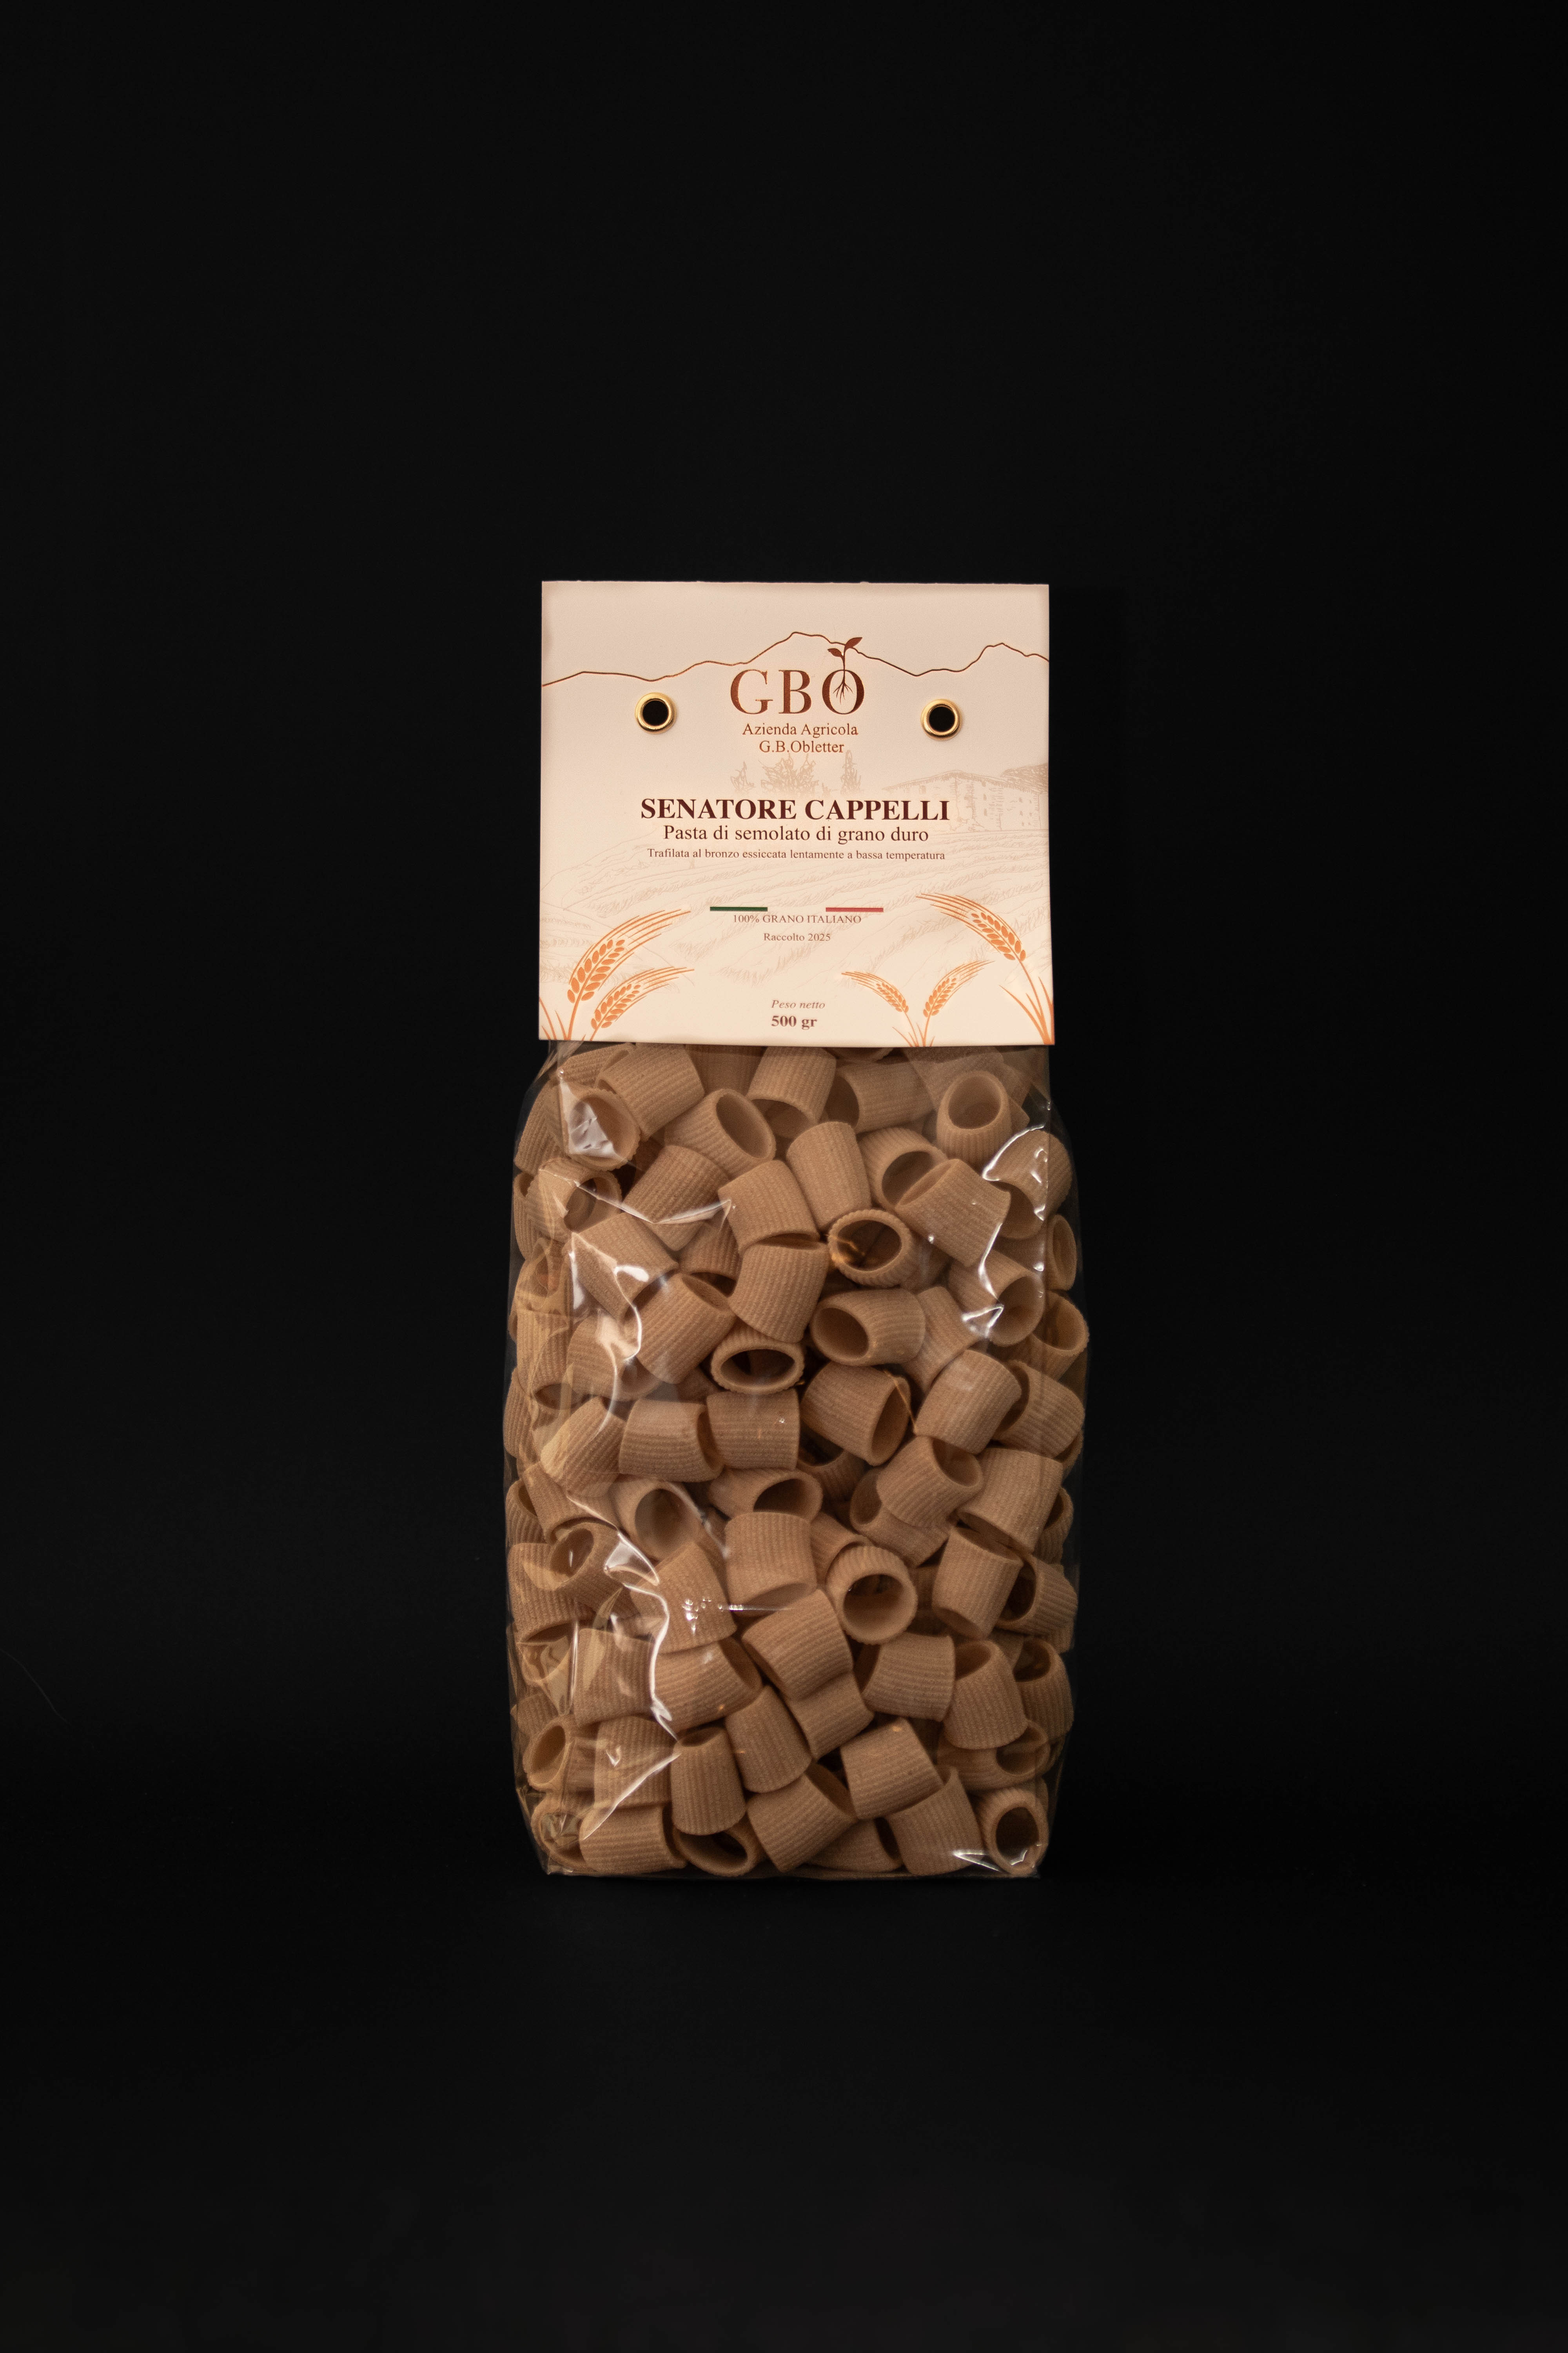
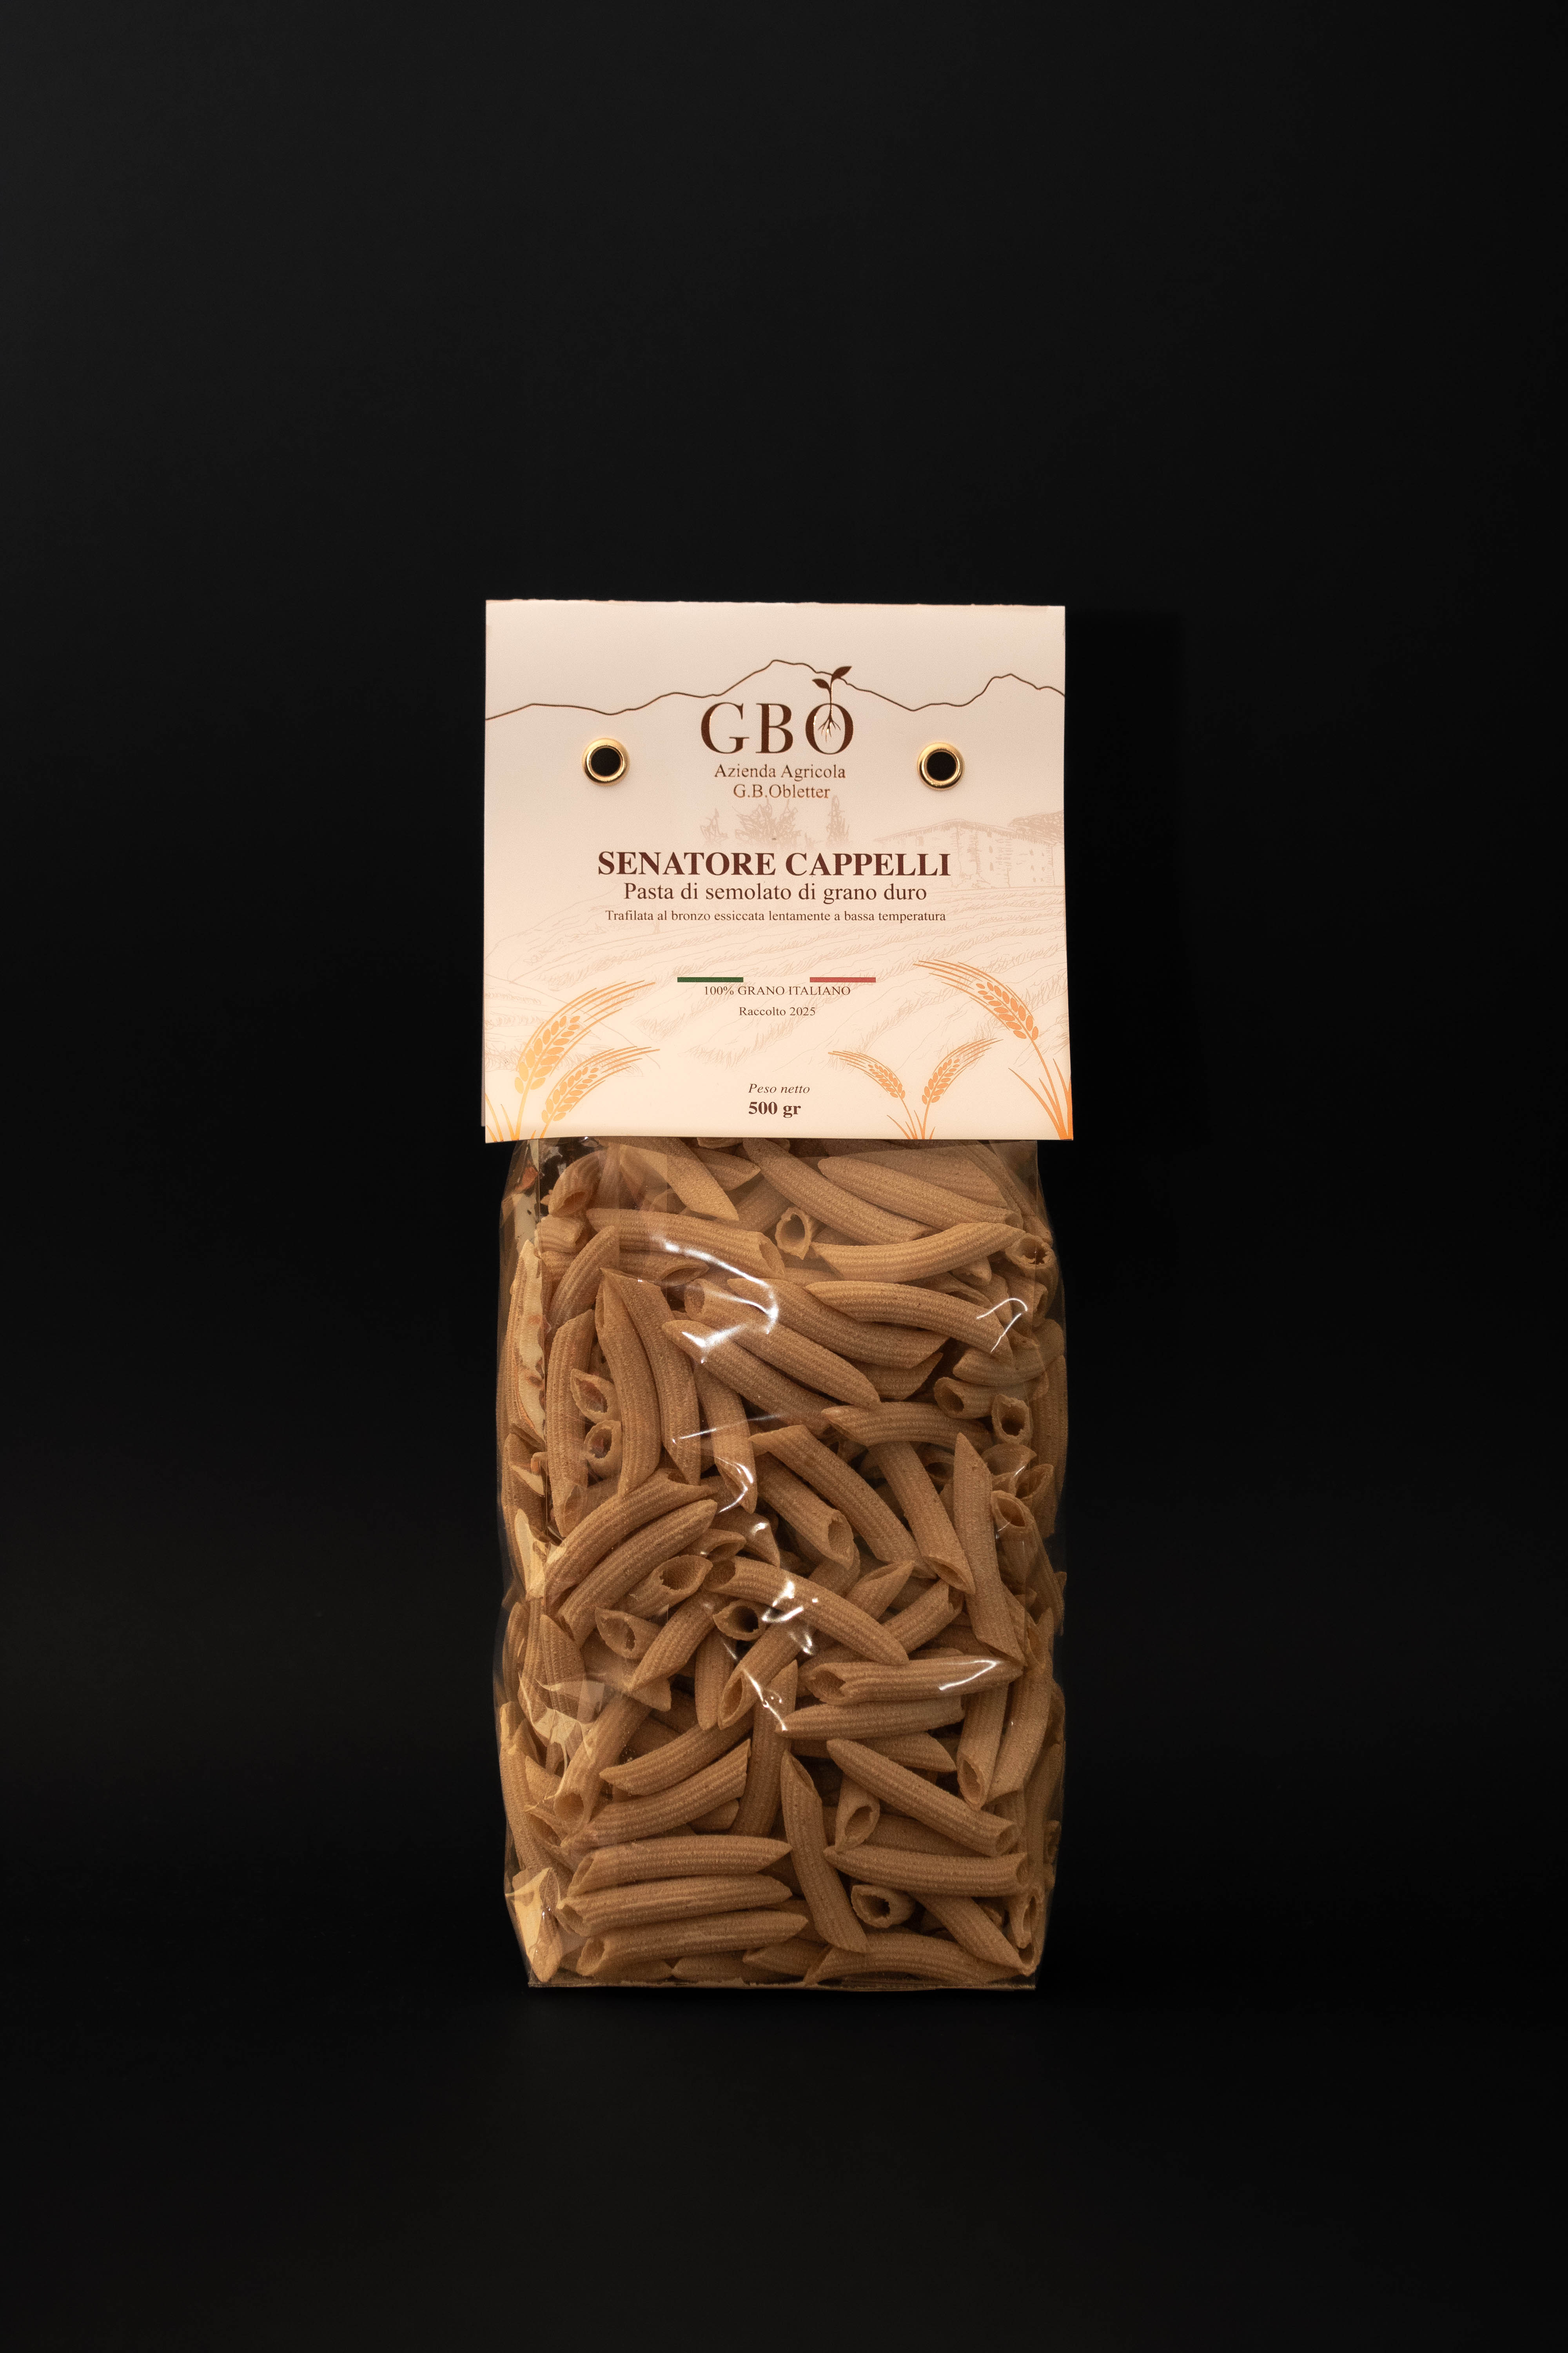
update: rimuovi fettuccine, aggiungi foto retro pasta, semplifica card
- Rimossa immagine fettuccine dal carosello hero e dal progetto
- Aggiornate immagini mezzemaniche e penne
- Aggiunte foto retro per mezzemaniche e penne (array images)
- Riposizionato logo hero (top 15%)
- Semplificato stile immagine card prodotto (rimosso scale condizionale)

Changed region(s): [[0.2812, 0.2493, 0.7188, 0.8727]]

diff --git a/src/data/products.ts b/src/data/products.ts
@@ -54,6 +54,7 @@ export const products: Product[] = [
     description: 'Alta digeribilità. Trafilatura al bronzo, essiccazione lenta.',
     price: 4.50,
     image: '/images/pasta-mezzemaniche.jpg',
+    images: ['/images/pasta-mezzemaniche.jpg', '/images/pasta-mezzemaniche-retro.jpg'],
     category: 'pasta',
     details: {
       origin: 'Via del Grano - Castellana',
@@ -69,6 +70,7 @@ export const products: Product[] = [
     description: 'Alta digeribilità. Trafilatura al bronzo, essiccazione lenta.',
     price: 4.50,
     image: '/images/pasta-penne.jpg',
+    images: ['/images/pasta-penne.jpg', '/images/pasta-penne-retro.jpg'],
     category: 'pasta',
     details: {
       origin: 'Via del Grano - Castellana',

diff --git a/src/components/sections/Products.tsx b/src/components/sections/Products.tsx
@@ -66,7 +66,7 @@ function ProductCard({ product, index }: { product: Product; index: number }) {
               src={product.image}
               alt={product.name}
               fill
-              className={`object-contain ${product.id.includes('3l') || product.id.includes('5l') ? 'scale-125 -translate-y-4' : product.id === 'olio-dop-50cl' ? 'scale-125' : product.id === 'pasta-penne' || product.id === 'pasta-fettuccine' ? 'scale-125' : ''}`}
+              className="object-contain"
               sizes="(max-width: 768px) 100vw, (max-width: 1200px) 50vw, 25vw"
               onError={() => setImageError(true)}
             />

diff --git a/src/components/sections/Hero.tsx b/src/components/sections/Hero.tsx
@@ -9,7 +9,6 @@ const productImages = [
   '/images/olio-3l.jpg',
   '/images/pasta-penne.jpg',
   '/images/olio-latta-5l.jpg',
-  '/images/pasta-fettuccine.jpg',
 ]
 
 export function Hero() {
@@ -55,7 +54,7 @@ export function Hero() {
 
         {/* Logo - Centered and prominent */}
         <motion.div
-          className="absolute inset-x-0 top-[3%] z-20 flex flex-col items-center"
+          className="absolute inset-x-0 top-[15%] z-20 flex flex-col items-center"
           initial={{ opacity: 0, y: 30 }}
           animate={{ opacity: 1, y: 0 }}
           transition={{ duration: 1.2, ease: [0.16, 1, 0.3, 1] }}
